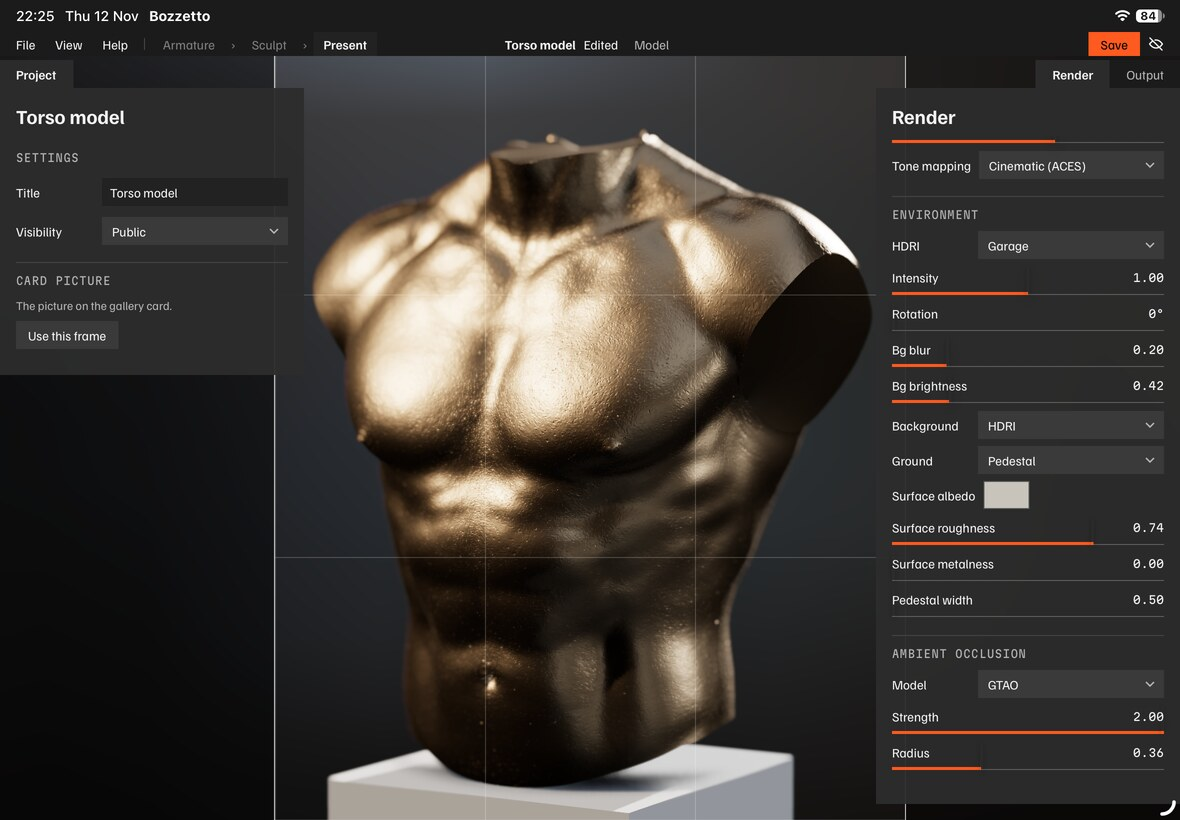
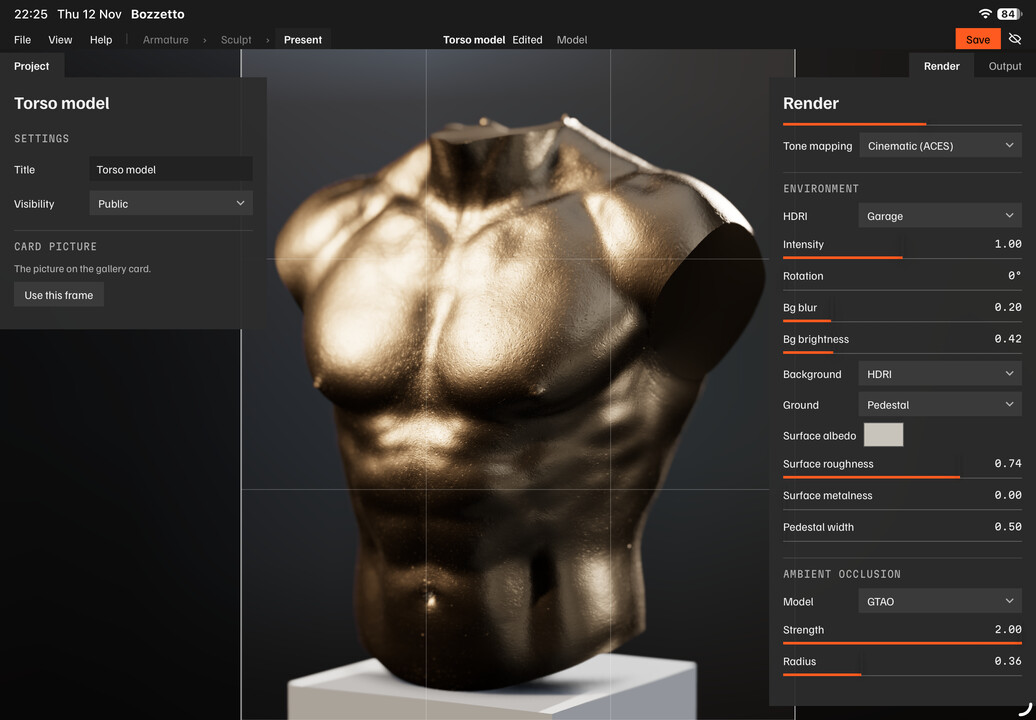
README: the three screenshots live in the repo, 720 pixels high
Claude-Session: https://claude.ai/code/session_017dCMQnbh7nz9LKsPaWCra5

diff --git a/README.md b/README.md
@@ -1,6 +1,6 @@
 # Bozzetto
 
-<img width="1180" height="820" alt="Bozzetto Screenshot - Sculpt mode" src="https://github.com/user-attachments/assets/5492772f-7dcc-4cdb-9749-a7153d0c9b10" />
+<img width="1036" height="720" alt="Bozzetto Screenshot - Sculpt mode" src="docs/screenshots/sculpt.jpg" />
 
 A *bozzetto* is the small clay study a sculptor makes before the real piece, where the rough form gets worked out.
 
@@ -23,7 +23,7 @@ Your work autosaves on your device. Nothing uploads unless you sign in and save 
 
 ## Armature
 
-<img width="1180" height="820" alt="Bozzetto Screenshot - Armature mode" src="https://github.com/user-attachments/assets/2fab7e90-c095-425d-8050-894e19636ffc" />
+<img width="1036" height="720" alt="Bozzetto Screenshot - Armature mode" src="docs/screenshots/armature.jpg" />
 
 A posable figure, for reference or as the start of a sculpt. Pick **Create → New Armature** in the gallery. No sign-in needed.
 
@@ -56,7 +56,7 @@ Pick **Create → New Sculpt** in the gallery. No sign-in needed, and nothing le
 
 ## Present
 
-<img width="1180" height="820" alt="Bozzetto Screenshot - Present mode" src="docs/screenshots/present.jpg" />
+<img width="1036" height="720" alt="Bozzetto Screenshot - Present mode" src="docs/screenshots/present.jpg" />
 
 Light the piece, render it and publish it. Open **Present** from the path at the top of Sculpt, or with `Shift`+`P`.
 
